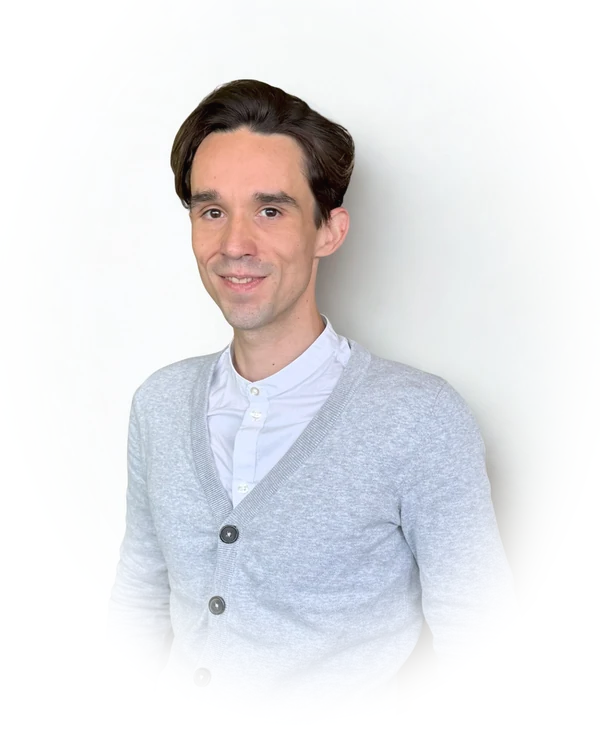
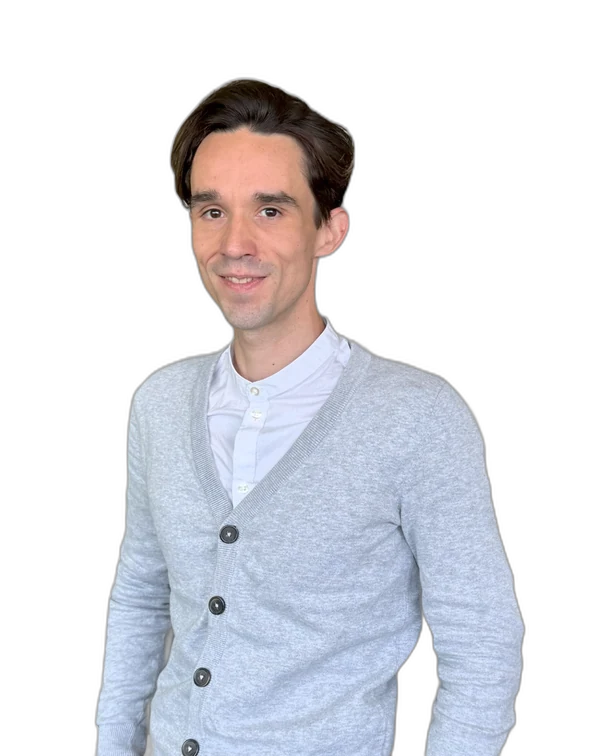
fix: use AI bg-removed transparent photo, remove CSS mask artifacts

diff --git a/src/pages/Home.css b/src/pages/Home.css
@@ -68,32 +68,9 @@
   width: 100%;
   height: auto;
   display: block;
-  /* Subtle warm tone shift to match the dark amber palette */
-  filter: grayscale(8%) contrast(1.02) brightness(0.97) sepia(6%);
-  /* CSS mask: radial gradient fades the photo edges into transparency,
-     blending seamlessly with the dark background — no hard border */
-  -webkit-mask-image:
-    radial-gradient(
-      ellipse 88% 92% at 50% 42%,
-      black 38%,
-      rgba(0,0,0,0.85) 52%,
-      rgba(0,0,0,0.5) 65%,
-      rgba(0,0,0,0.15) 78%,
-      transparent 90%
-    );
-  mask-image:
-    radial-gradient(
-      ellipse 88% 92% at 50% 42%,
-      black 38%,
-      rgba(0,0,0,0.85) 52%,
-      rgba(0,0,0,0.5) 65%,
-      rgba(0,0,0,0.15) 78%,
-      transparent 90%
-    );
-  -webkit-mask-size: 100% 100%;
-  mask-size: 100% 100%;
-  -webkit-mask-repeat: no-repeat;
-  mask-repeat: no-repeat;
+  /* Background is transparent (AI-removed) — sits cleanly on dark bg */
+  /* Subtle warm tone + soft drop-shadow for depth */
+  filter: grayscale(6%) contrast(1.02) brightness(0.96) sepia(5%) drop-shadow(0 8px 32px rgba(0, 0, 0, 0.55));
 }
 
 .hero__title {

diff --git a/src/pages/Person.css b/src/pages/Person.css
@@ -48,29 +48,8 @@
   width: 100%;
   height: auto;
   display: block;
-  filter: grayscale(8%) contrast(1.02) brightness(0.97) sepia(6%);
-  -webkit-mask-image:
-    radial-gradient(
-      ellipse 88% 92% at 50% 42%,
-      black 38%,
-      rgba(0,0,0,0.85) 52%,
-      rgba(0,0,0,0.5) 65%,
-      rgba(0,0,0,0.15) 78%,
-      transparent 90%
-    );
-  mask-image:
-    radial-gradient(
-      ellipse 88% 92% at 50% 42%,
-      black 38%,
-      rgba(0,0,0,0.85) 52%,
-      rgba(0,0,0,0.5) 65%,
-      rgba(0,0,0,0.15) 78%,
-      transparent 90%
-    );
-  -webkit-mask-size: 100% 100%;
-  mask-size: 100% 100%;
-  -webkit-mask-repeat: no-repeat;
-  mask-repeat: no-repeat;
+  /* Background is transparent (AI-removed) — sits cleanly on dark bg */
+  filter: grayscale(6%) contrast(1.02) brightness(0.96) sepia(5%) drop-shadow(0 8px 32px rgba(0, 0, 0, 0.55));
 }
 
 .page-header__title {
